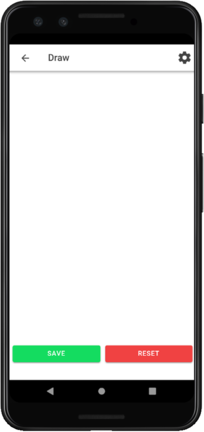
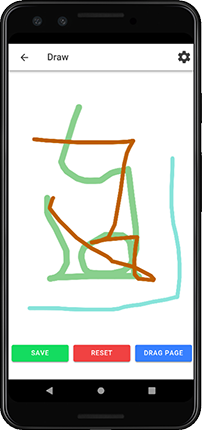
Modify Application overview

Changed region(s): [[0.0, 0.0, 1.0, 1.0], [0.1485, 0.2419, 0.7723, 0.6651], [0.1188, 0.3628, 0.9208, 0.7256]]

diff --git a/drawingApp/src/app/drag/drag.page.ts b/drawingApp/src/app/drag/drag.page.ts
@@ -1,4 +1,4 @@
-import { ViewChild, Component, OnInit } from '@angular/core';
+import { ViewChild, Component, OnInit, Output, EventEmitter } from '@angular/core';
 import { Platform } from '@ionic/angular';
 import { Location } from '@angular/common';
 import { Hammer } from 'hammerjs';
@@ -12,6 +12,8 @@ export class DragPage implements OnInit {
 
   @ViewChild('topContainer') topContainer: any;
   @ViewChild('canvasDragable') canvasDragable: any;
+
+  @Output() event_name: EventEmitter<any> = new EventEmitter();
 
   textElement: any;
   canvasElement: any;
@@ -32,7 +34,6 @@ export class DragPage implements OnInit {
   ngAfterViewInit(){
     this.canvasElement = this.canvasDragable.nativeElement;
     let ctx = this.canvasElement.getContext('2d');
-
   }
 
   handlePan(ev) {
@@ -57,13 +58,13 @@ export class DragPage implements OnInit {
     let viewHeight = viewRatio * 100;
     let minScroll = topNavHeight / deviceHeight * 100;
 
+    if(contentRatio <= viewHeight) {
+      console.log("Salut")
+    }
+
     if(viewHeight >= minScroll && viewHeight <= 92) {
-      // if(contentRatio <= 40) {
-      //   document.getElementById("top-container").style.height = viewHeight + "vh";
-      //   document.getElementById("top-container").style.maxHeight = "40vh";
-      // } else if(contentRatio > 40) {
-        document.getElementById("top-container").style.height= viewHeight + "vh";
-      // }
+      document.getElementById("top-container").style.height= viewHeight + "vh";
+      console.log("Dragable container : " + viewHeight.toFixed(3) + "%");
     } else if(viewHeight > 92) {
       document.getElementById("top-container").style.height = "92vh";  
     } else if(viewHeight < minScroll) {
@@ -72,12 +73,13 @@ export class DragPage implements OnInit {
   }
 
   handleDoubleTap(ev) {
-    // ev.preventDefault();
+    ev.preventDefault();
     this.count++;
     setTimeout(() => {
       if (this.count == 1) {
         this.count = 0;
         console.log('Single Tap');
+        document.getElementById("top-container").style.height = "40vh";
 
       } else if(this.count > 1){
         // If user double tap then it reset to the default value, the height
@@ -89,7 +91,7 @@ export class DragPage implements OnInit {
     }, 250);
   }
 
-  onScroll(ev) {
+  swipeEvent(ev) {
     console.log("%cPage scrolled", "color: #00BEBE");
   }
 

diff --git a/drawingApp/src/app/test/test.page.html b/drawingApp/src/app/test/test.page.html
@@ -6,11 +6,7 @@
     </ion-buttons>
      
     <ion-title>Draw</ion-title>
-      
-    <ion-button (click)="newPageCanvas()">
-      <ion-label>Drag page</ion-label>
-    </ion-button>
-
+    
     <ion-buttons slot="end" (click)="openPopover($event)">
       <ion-icon style="font-size: 2em" name="settings"></ion-icon>
     </ion-buttons>
@@ -31,6 +27,9 @@
       </ion-col>
       <ion-col>
         <ion-button style="width:100%" (click)="clearCanvas()" color="danger">Reset</ion-button>
+      </ion-col>
+      <ion-col>
+        <ion-button style="width:100%" (click)="newPageCanvas()" color="primary">Drag Page</ion-button>
       </ion-col>
     </ion-row>
       

diff --git a/drawingApp/src/app/drag/drag.page.html b/drawingApp/src/app/drag/drag.page.html
@@ -38,7 +38,7 @@
       <ion-icon class="drag-icon" name="menu"></ion-icon>
     </div>
 
-  </div>
+    </div>
 
   <canvas class="context-canavas-dragable" #canvasDragable></canvas>
   

diff --git a/drawingApp/README.md b/drawingApp/README.md
@@ -4,13 +4,17 @@
 
 <center>
  
-Form Page             |  Canvas Drawing Page
+Form Page             |  Settings popover
 :-------------------------:|:-------------------------:
-![Form](docs/img/form.png)  |  ![Canvas](docs/img/canvas.png)
+![Form](docs/img/form.png)  |  ![Settings](docs/img/settings.png)
 
-Settings popover             |  Save Page
+Canvas Drawing Page              |  Save Page
 :-------------------------:|:-------------------------:
-![Settings](docs/img/settings.png)  |  ![Save](docs/img/save.png)
+![Canvas](docs/img/canvas.png)  |  ![Save](docs/img/saving.png)
+
+Drage Page             |  Drag to see more
+:-------------------------:|:-------------------------:
+![Drag](docs/img/drag.PNG)  |  ![Drag more](docs/img/drag-more.png)
 
 </center>
 
